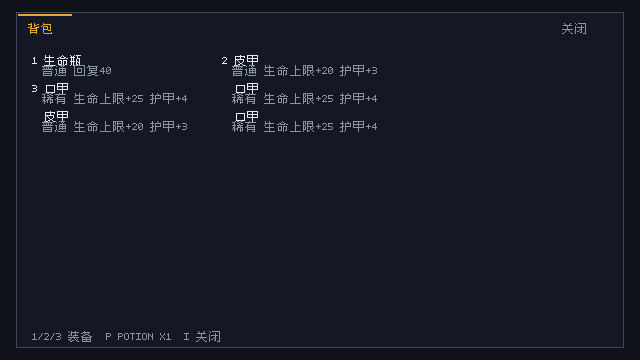
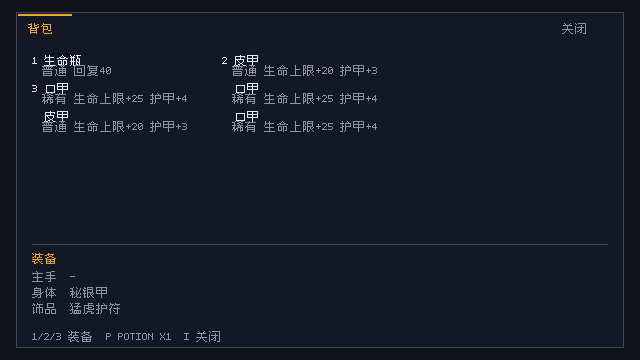
feat: inventory gear and best on end screen

Changed region(s): [[0.0312, 0.7639, 0.1875, 0.8861], [0.0312, 0.7028, 0.0938, 0.7333]]

diff --git a/README.md b/README.md
@@ -14,7 +14,7 @@
 - **格子与地牢**：31×31 网格，大于屏幕；相机跟随主角并在地图边缘夹取；墙/柱子/水域阻挡；撞墙不消耗回合，撞敌人 = 普攻；3 层，楼梯下一层，第 3 层 Boss；Boss 存活时楼梯被封印；Boss 免疫眩晕，但减速和灼烧仍有效；Boss 血量降到 50% 召唤 1 只骷髅（半血、入场眩晕 1 回合），低于 35% 进入狂暴，攻击 +15%、速度 +10，头顶显示 RAGE。
 - **确定性关卡**：同一 seed 生成同一层（显式 `--seed` 时完全可复现）；入口、楼梯、宝箱、陷阱、敌人出生点由连通性校验；敌人用 A* 绕墙追击，远程用 LOS。
 - **升级加点**：升级获得 1 点，C 面板按 1-6 加力量/敏捷/体质/感知/魔力/意志；自动跑局自动加主属性。
-- **属性/装备/掉落**：六属性、HP/资源、攻击/护甲/暴击/速度；13 件装备/道具，宝箱和击杀产生掉落，空槽自动装备，装备即时改变面板数值；生命瓶/魔力瓶可按 P 直接使用；背包底栏显示剩余数量。
+- **属性/装备/掉落**：六属性、HP/资源、攻击/护甲/暴击/速度；13 件装备/道具，宝箱和击杀产生掉落，空槽自动装备，装备即时改变面板数值；生命瓶/魔力瓶可按 P 直接使用；背包底栏显示剩余数量，底部常驻显示主手/身体/饰品三槽。
 - **天赋瞄准**：1/2/3 先进入瞄准，显示目标/距离/预计伤害/范围；空格/同键/左键确认，Esc 取消，Tab 换目标；火球可点地面格，AOE 范围环实时预览，命中附加 2 回合灼烧；超距/无视线/缺资源红色提示。
 - **敌人阶段/先攻**：玩家行动后 HUD 显示“敌人行动”，锁定输入约 0.3 秒再结算敌人移动/攻击；顶栏同时显示“先攻 玩家>两名最快敌人”，与敌人阶段的速度排序一致；敌人头顶显示攻击/远程/追击/深渊斩意图。自动跑局和 QA 仍即时结算。
 - **三槽存档 + 自动档**：F5/F9 打开槽位面板，1/2/3 保存或读取；每槽一个 JSON 容器（run+gear 一次原子提交）。下到新楼层自动轮换 saves/autosave1..3.save，F10 打开自动档面板读取最近 3 个备份。
